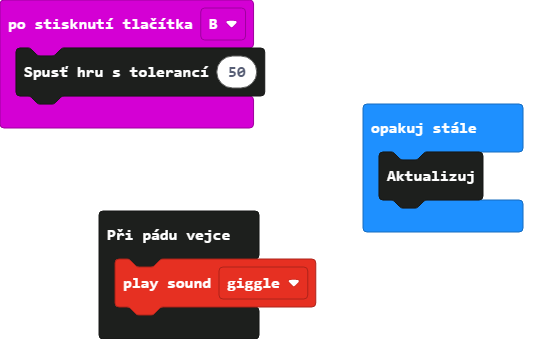
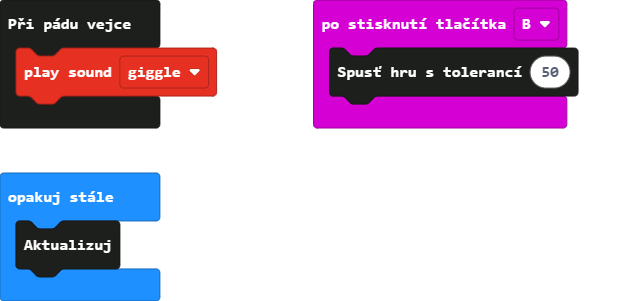
Aktualizovat main.blocks, main.ts, balancing.ts

diff --git a/balancing.ts b/balancing.ts
@@ -1,28 +1,19 @@
-/**
- * Použijte tento soubor k definování personalizovaných funkcí a bloků.
- * Přečtěte si více na https://makecode.microbit.org/blocks/custom
- */
-
-
-/**
- * Custom blocks
- */
-//% weight=100 color=#1d1f1d icon="\uf24e"
+//% weight=100 color=#1d1f1d icon="\uf24e" block="Balancování"
 namespace Balancovani {
 
-    let boundary = 30
-    let isGameInProgress = false
+    let okraje = 30
+    let probihaHra = false
     let x = 0
     let y = 0
-    let prevX = 0
-    let prevY = 0
+    let predchoziX = 0
+    let predchoziY = 0
     
     /**
     * Spustí hru a nastaví toleranci
     */
     //% block="Spusť hru s tolerancí %tolerance"
     export function spustitHru(tolerance: number): void {
-        boundary = tolerance
+        okraje = tolerance
         basic.showLeds(`
         . . . . .
         . . . . .
@@ -30,10 +21,10 @@ namespace Balancovani {
         . . . . .
         . . . . .
         `)
-        x = Math.floor(Math.map(input.rotation(Rotation.Roll), 0 - boundary, boundary, 0, 4) / 0.8)
-        y = Math.floor(Math.map(input.rotation(Rotation.Pitch), 0 - boundary, boundary, 0, 4) / 0.8)
+        x = Math.floor(Math.map(input.rotation(Rotation.Roll), 0 - okraje, okraje, 0, 4) / 0.8)
+        y = Math.floor(Math.map(input.rotation(Rotation.Pitch), 0 - okraje, okraje, 0, 4) / 0.8)
         led.plot(x, y)    
-        isGameInProgress = true
+        probihaHra = true
 
     }
 
@@ -42,13 +33,13 @@ namespace Balancovani {
     */
     //% block="Aktualizuj"
     export function aktualizace(): void {
-        if (isGameInProgress) {
-            prevX = x
-            prevY = y
-            x = Math.floor(Math.map(input.rotation(Rotation.Roll), 0 - boundary, boundary, 0, 4) / 0.8)
-            y = Math.floor(Math.map(input.rotation(Rotation.Pitch), 0 - boundary, boundary, 0, 4) / 0.8)
-            if (x != prevX || y != prevY) {
-                led.unplot(prevX, prevY)
+        if (probihaHra) {
+            predchoziX = x
+            predchoziY = y
+            x = Math.floor(Math.map(input.rotation(Rotation.Roll), 0 - okraje, okraje, 0, 4) / 0.8)
+            y = Math.floor(Math.map(input.rotation(Rotation.Pitch), 0 - okraje, okraje, 0, 4) / 0.8)
+            if (x != predchoziX || y != predchoziY) {
+                led.unplot(predchoziX, predchoziY)
                 led.plot(x, y)
             }
 
@@ -57,22 +48,23 @@ namespace Balancovani {
 
     /**
     * Zkontroluje, jestli vejce nespadlo
+    * @akce Příkazy, které se provedou, pokud dojde k pádu vejce
     */
     //% block="Při pádu vejce"
-    export function onEggDrop(action: () => void) {
-        const myEventID = 111 + Math.randomRange(0, 100); // semi-unique
+    export function kdyzSpadneVejce(akce: () => void) {
+        const eventId = 111 + Math.randomRange(0, 100);
 
-        control.onEvent(myEventID, 0, function () {
+        control.onEvent(eventId, 0, function () {
             control.inBackground(() => {
-                action()
+                akce()
             })
         })
 
         control.inBackground(() => {
             while (true) {
-                if (isGameInProgress && (x == 0 || x == 4 || y == 0 || y == 4)) {
-                    isGameInProgress = false
-                    control.raiseEvent(myEventID, 1)
+                if (probihaHra && (x == 0 || x == 4 || y == 0 || y == 4)) {
+                    probihaHra = false
+                    control.raiseEvent(eventId, 1)
                 }
                 basic.pause(20)
             }

diff --git a/main.ts b/main.ts
@@ -1,7 +1,7 @@
 input.onButtonPressed(Button.B, function () {
     Balancovani.spustitHru(50)
 })
-Balancovani.onEggDrop(function () {
+Balancovani.kdyzSpadneVejce(function () {
     soundExpression.giggle.play()
 })
 basic.forever(function () {
